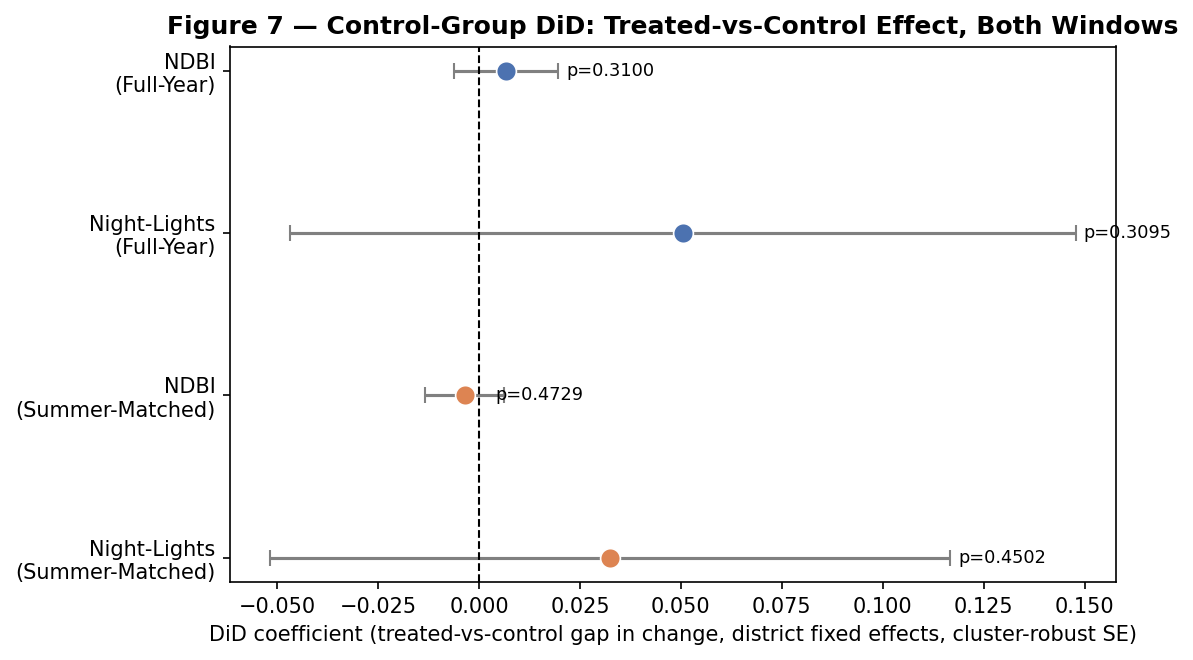
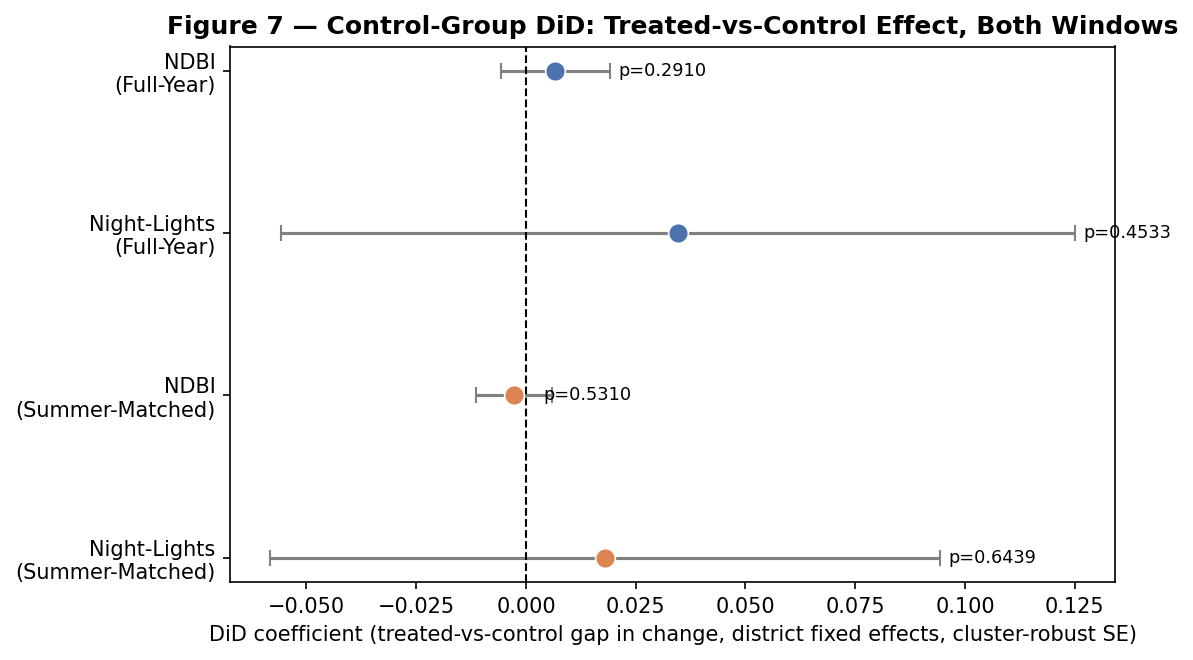
Sync dashboard, docs, citation file to 721-village control list (Entry 38)
- Fix hardcoded 732-village references across 4 dashboard pages and app.py
- Fix stale docstring in did_model.py
- Update CITATION.cff abstract, bump version to 1.6.0
- Rewrite DATA_DICTIONARY.md control-villages section to reflect current post-Entry-37 state
- Fix dashboard baseline-imbalance section that was contradicting the paper's own Section 6.7
- Regenerate 2 control-dependent figures (08, 11) plus 3 unaffected ones from the same script runs
- Correct archive/README.md superseded-by claim

diff --git a/pages/8_Methodology_Limitations.py b/pages/8_Methodology_Limitations.py
@@ -38,7 +38,7 @@ st.markdown("---")
 st.markdown("### Processing Pipeline")
 
 st.markdown("""
-Each village — treated and, identically, the 732-village non-VVP control group — is
+Each village — treated and, identically, the 721-village non-VVP control group — is
 buffered (500m primary, with 250m and 1km run as a robustness check) and used as the
 region for `reduceRegion` over cloud-masked Sentinel-2 composites (QA60 bitmask) and
 VIIRS monthly composites, for both a full-year window and a season-matched (Jun–Sep)
@@ -135,23 +135,38 @@ with st.expander("**Composite Window Trade-Off — Snow vs. Monsoon Cloud**"):
     other tests, that instability continues to be reported as a finding in itself.
     """)
 
-with st.expander("**Control-Group Baseline Imbalance — Resolved, and Why It Mattered**"):
+with st.expander("**Control-Group Baseline Imbalance — Resolved, Then Reopened by a Later Fix**"):
     st.markdown("""
     On the complete data (Development Log Entry 22), only one of the four outcome/window
     combinations still showed treated villages starting from a significantly different mean
-    2021 baseline than the 732-village control group: night-lights, full-year — which was
+    2021 baseline than the control group: night-lights, full-year — which was
     also, at the time, the one control-group DiD result still significant under any
     specification, and the one combination where the two DiD specifications disagreed on
-    significance. That imbalance is now resolved too: once the control group's own
+    significance. That imbalance looked resolved for a while: once the control group's own
     contamination was found (Development Log Entry 23 — 20 exact-coordinate duplicates of
     treated villages plus 3 official-name matches, together implicating 23 control-group
     rows) and actually fixed against live data (Entry 25), the full-year night-lights
-    baseline is no longer significantly imbalanced, and neither is any other combination.
-    All four outcome/window baseline checks are now statistically balanced. A genuine
-    parallel-pre-trends placebo test *has* since been run (Development Log Entry 30) — see
-    the "Parallel Pre-Trends Placebo Test" expander below — by pulling a second, earlier
-    pre-treatment year (2019) for both groups, closing the gap this section used to describe
-    as unclosable with the existing single-pre-period extraction.
+    baseline was no longer significantly imbalanced on that 732-village control list
+    (p = 0.090), and neither was any other combination.
+
+    That picture changed again with the Development Log Entry 37 district-verification fix
+    (the control list going from 732 to 721 villages, Tawang and Pithoragarh now
+    boundary-verified rather than bbox-matched) — and not in the direction of "more
+    resolved." The full-year night-lights baseline is imbalanced again on the corrected
+    721-village list: treated mean 0.42821 vs. control 0.43493, n = 251/721,
+    **p = 0.03558**. The other three combinations stay balanced (full-year NDBI p = 0.181,
+    summer NDBI p = 0.461, summer night-lights p = 0.088). This is disclosed rather than
+    smoothed over: fixing a real, independently-verified data-quality problem (unverified
+    district labels) surfaced a baseline imbalance that a previous, less-correct version of
+    the control list happened not to show. The full-year night-lights DiD result itself
+    stays null on the corrected list (p = 0.45334, see H4 above) — but that null can no
+    longer be read as sitting on a well-matched baseline for this one outcome/window
+    combination, the way it briefly could between Entries 25 and 37 (see Research Paper
+    §6.7 for the full account). A genuine parallel-pre-trends placebo test *has* since been
+    run (Development Log Entry 30) — see the "Parallel Pre-Trends Placebo Test" expander
+    below — by pulling a second, earlier pre-treatment year (2019) for both groups, closing
+    the gap this section used to describe as unclosable with the existing single-pre-period
+    extraction.
     """)
 
 with st.expander("**Multi-Year Trend Is Not Monotonic (and Nets Out to a Null, Like the Two-Point Comparison)**"):

diff --git a/pages/1_Study_Design.py b/pages/1_Study_Design.py
@@ -24,7 +24,7 @@ growth — at 258 individually geocoded villages, then tests whether that change
 statistically meaningful, correlated with budget, predicted by proximity to the
 border/LAC itself, and attributable to VVP-I specifically rather than a regional trend
 shared by every village in these districts — benchmarked against a district-restricted non-VVP
-control group of 732 villages and a three-point 2021/2023/2025 trend.
+control group of 721 villages and a three-point 2021/2023/2025 trend.
 """)
 
 st.markdown("---")
@@ -90,7 +90,7 @@ st.markdown(f"""
         Is any detected change attributable to VVP-I specifically, or does it merely reflect
         a regional trend shared by every village in these border districts regardless of
         programme status? <b>H4:</b> VVP-I priority villages will show a significantly
-        larger increase than a matched set of 732 non-VVP villages in the same 14
+        larger increase than a matched set of 721 non-VVP villages in the same 14
         districts over the same period — tested with a district-fixed-effects
         Difference-in-Differences model (see Statistical Validation).
     </p>
@@ -126,7 +126,7 @@ with col_b:
         <p style="color: {PALETTE['text_primary']}; font-size: 0.9rem; margin: 0;">
             Arunachal Pradesh, Sikkim, and Uttarakhand form the <b>core statistical sample</b>.
             Himachal Pradesh (7 villages) is an <b>illustrative case study</b> only — see
-            Methodology & Limitations. A district-restricted <b>non-VVP control group</b> of 732 villages,
+            Methodology & Limitations. A district-restricted <b>non-VVP control group</b> of 721 villages,
             drawn from the identical 14 districts, benchmarks this sample's change against
             the surrounding region's own trend over the same period.
         </p>
@@ -200,7 +200,7 @@ with col_m2:
 
 col_m3, col_m4 = st.columns([0.94, 0.06])
 with col_m3:
-    st.markdown("3. **Satellite Extraction** — Sentinel-2 NDBI and VIIRS night-lights via Google Earth Engine, run identically for the treated sample and the 732-village non-VVP control group, at three time points (2021/2023/2025) and three buffer radii (250m/500m/1km), cloud-masked composites.")
+    st.markdown("3. **Satellite Extraction** — Sentinel-2 NDBI and VIIRS night-lights via Google Earth Engine, run identically for the treated sample and the 721-village non-VVP control group, at three time points (2021/2023/2025) and three buffer radii (250m/500m/1km), cloud-masked composites.")
 with col_m4:
     proof_popover("02_gee_extraction_vscode.png", "extract_satellite_data.py open in VS Code, running the Earth Engine NDBI/VIIRS extraction pipeline.")
 
@@ -220,7 +220,7 @@ with col_m7:
 with col_m8:
     proof_popover("04_statistical_testing_vscode.png", "Statistical Validation page code open in VS Code — the Wilcoxon signed-rank and Spearman correlation tests.")
 
-st.markdown("7. **Control-Group DiD** — 732 non-VVP villages from the same 14 districts, via the OpenStreetMap Overpass API, compared against the treated sample with a district-fixed-effects Difference-in-Differences model (RQ5/H4).")
+st.markdown("7. **Control-Group DiD** — 721 non-VVP villages from the same 14 districts, via the OpenStreetMap Overpass API, compared against the treated sample with a district-fixed-effects Difference-in-Differences model (RQ5/H4).")
 st.markdown("8. **Multi-Year Trend** — A third time point (2023) fit as a per-village linear trend across 2021/2023/2025, so a trend line — not a two-point difference — carries the evidentiary weight.")
 st.markdown("9. **Buffer-Radius Sensitivity** — The same summer-window test re-run at 250m and 1km, on a sample-matched subset, to check the 500m buffer choice isn't itself driving the result.")
 

diff --git a/pages/5_Statistical_Validation.py b/pages/5_Statistical_Validation.py
@@ -21,7 +21,7 @@ _checks = [
     (PALETTE['accent'], "✓", "Dual Compositing-Window Test"),
     (PALETTE['accent'], "✓", "Two Independent Metrics (NDBI + VIIRS)"),
     (PALETTE['accent'], "✓", "Wilcoxon Signed-Rank Tests"),
-    (PALETTE['accent'], "✓", "District-Restricted Non-VVP Control Group (732 villages, DiD)"),
+    (PALETTE['accent'], "✓", "District-Restricted Non-VVP Control Group (721 villages, DiD)"),
     (PALETTE['accent'], "✓", "Control-Group DiD Checked Further (Leave-One-District-Out + Randomization Inference)"),
     (PALETTE['accent'], "✓", "Three-Point Multi-Year Trend (2021/2023/2025)"),
     (PALETTE['accent'], "✓", "Buffer-Radius Sweep (250m / 500m / 1km)"),
@@ -178,7 +178,7 @@ st.markdown("### H4 — Control-Group Difference-in-Differences")
 st.markdown(
     "A treated-only before/after comparison can't tell VVP-I's own effect apart from a "
     "regional trend every village in these districts shares. This benchmarks the treated "
-    "core sample against 732 district-restricted non-VVP villages in the same 14 districts — district "
+    "core sample against 721 district-restricted non-VVP villages in the same 14 districts — district "
     "fixed effects, standard errors clustered by district. Checked further by dropping each "
     "district one at a time and by randomization inference that doesn't lean on cluster "
     "asymptotics — see the cards below for each window's own leave-one-out and randomization "

diff --git a/app.py b/app.py
@@ -136,7 +136,7 @@ with col_left:
 
     This project fills that gap: applying **Sentinel-2 built-up-area indices (NDBI)** and
     **VIIRS night-lights** data to 258 individually geocoded villages, benchmarked against
-    a district-restricted non-VVP control group of 732 villages in the same districts, testing whether
+    a district-restricted non-VVP control group of 721 villages in the same districts, testing whether
     measurable change occurred between 2021 and 2025, whether it is attributable to VVP-I
     specifically, whether it correlates with state-wise budget allocation, and whether
     proximity to the border/LAC itself predicts the pace of development — with every data
@@ -180,7 +180,7 @@ with m1:
         <p style="color: {PALETTE['border_up']}; font-weight: 800; font-size: 0.85rem; text-transform: uppercase; margin-bottom: 10px;">Satellite Verification</p>
         <p style="color: {PALETTE['text_primary']}; font-size: 0.88rem; margin: 0;">
             Sentinel-2 NDBI and VIIRS night-lights extracted at 258 treated village points
-            plus 732 district-restricted control villages, across paired 2021/2025 composites (plus
+            plus 721 district-restricted control villages, across paired 2021/2025 composites (plus
             2023) under both full-year and season-matched windows, at 250m/500m/1km
             buffers.
         </p>

diff --git a/pages/7_Interactive_Maps.py b/pages/7_Interactive_Maps.py
@@ -17,7 +17,7 @@ st.markdown(
 st.markdown("---")
 
 st.markdown("""
-Every geocoded village — plus the 732-village non-VVP control group — plotted on a live
+Every geocoded village — plus the 721-village non-VVP control group — plotted on a live
 satellite/dark basemap, plus the three headline statistical charts as hoverable, toggleable
 plots instead of flat images. Hover or click any marker or data point for its exact value.
 """)

diff --git a/src/analysis/did_model.py b/src/analysis/did_model.py
@@ -1,6 +1,6 @@
 """
-DiD: 251 treated villages vs 732 district-restricted non-VVP control villages
-(dedup logic is in select_control_villages.py). District FE, SEs clustered by district.
+DiD: 251 treated villages vs 721 district-restricted non-VVP control villages
+(dedup + district-boundary verification logic is in select_control_villages.py). District FE, SEs clustered by district.
 """
 
 import argparse

diff --git a/BO_Development_Log.md b/BO_Development_Log.md
@@ -1218,3 +1218,19 @@ Rather than take on the full Anara list, Sakshi chose the minimal path: fix the 
 **Documents updated in this entry.** `BO_Research_Paper.md` (Abstract, §3.7-adjacent DiD-design sentence, §4.6 footnote and all three paragraphs, §4.9 two DiD-figure citations, §4.10 SAR and Dynamic World paragraphs, §6.7 full rewrite, §6.10 table rows for baseline imbalance/cluster count/contamination/district-verification); `tests/test_data_integrity.py` (`EXPECTED_CONTROL` 732 → 721); `ANALYSIS_FREEZE.md` (summary table, items 1, 2, 6, 12); `README.md` (two control-group paragraphs); `BO_Executive_Summary.md` (three control-group mentions); `src/acquisition/extract_dynamicworld_built.py`, `src/acquisition/extract_sar_backscatter.py`, `src/acquisition/extract_building_footprints.py` (coordinate-based mismatch check added to all three); `src/analysis/pretreatment_placebo_test.py`, `src/analysis/dw_pretreatment_placebo_test.py` (control-side join switched from `village_id` to coordinate). All Python files reverified with `python3 -m py_compile`; `tests/test_data_integrity.py` reruns 12/12 pass.
 
 **Not done in this entry.** The Dynamic World 2019 placebo test (Entry 36's fourth deferred item) has its extraction and analysis scripts written and fixed, but the 2019 baseline extraction itself has not been run — needs `extract_dw_pretreatment_baseline.py` on Sakshi's own machine for both groups/windows, then `dw_pretreatment_placebo_test.py`. `extract_pretreatment_baseline.py --group control` and `extract_building_footprints.py --group control` also still need re-running against the current 721-village list before `pretreatment_placebo_test.py` (existing §7.5 result) or the control-side building footprints (currently unused) can be trusted if re-run. Sikkim's North district remains permanently or provisionally bbox-only; no further attempt was made in this entry to resolve it differently (e.g. by aggregating known constituent village names).
+
+## Entry 38
+
+**Status.** After Entry 37 closed the district-verification gap and the paper/dev-log/freeze-doc/README/executive-summary were all updated to the corrected 721-village list, Sakshi asked directly whether *everything* — dashboard, docs, maps, graphs, citation file — was actually synced, or whether something got missed. It had: Entry 37 only touched the text documents actually cited in the paper. This entry is that gap-finding pass, done by checking every remaining file rather than assuming the earlier fix was complete.
+
+**What was found stale.** Four Streamlit dashboard pages still hardcoded "732 villages" in their prose: `pages/1_Study_Design.py` (5 mentions), `pages/5_Statistical_Validation.py` (2 current-state mentions; one historical Entry-25-era mention at line 356 correctly left as-is, since 732 was the true count at that point in the project's history), `pages/7_Interactive_Maps.py` (1 mention), `pages/8_Methodology_Limitations.py` (1 mention). `app.py`'s landing page had two more (the intro paragraph and the "Methodology at a Glance" card). `src/analysis/did_model.py`'s top-of-file docstring still read "251 treated villages vs 732 ... control villages." `CITATION.cff`'s abstract still said "732 villages" with no mention of the district-verification fix or the baseline-imbalance flip that Entry 37 found. `DATA_DICTIONARY.md`'s `border_optics_control_villages.csv` section was the most stale of all: it still described the *pre-fix* state as current ("732 rows," "219 of the 732 rows" unverified, "the already-committed 732-row file itself has not yet been regenerated" — all true when that section was first written, all false now). `archive/README.md` asserted the archived pre-Entry-24 file was "superseded by the current 732-village" list, which stopped being true the moment Entry 37 ran.
+
+**A substantive content gap, not just a stale number.** `pages/8_Methodology_Limitations.py`'s "Control-Group Baseline Imbalance" expander was titled "Resolved, and Why It Mattered" and stated outright that "All four outcome/window baseline checks are now statistically balanced." That was true after Entry 25 and false after Entry 37 — the full-year night-lights baseline reopened as significantly imbalanced (p=0.036) on the corrected 721-village list, exactly the finding Entry 37 reported in the paper's §6.7. The dashboard section was quietly making a claim the paper itself had already retracted. Rewrote the expander (title and body) to match §6.7's account: resolved after Entry 25, reopened after Entry 37, with the actual numbers for all four combinations and a note that the full-year night-lights DiD result itself stays null regardless.
+
+**Two figures were also genuinely stale, not just text.** Traced every figure-generating script to determine which read control-group data: `make_expanded_analysis_charts.py` (→ `08_control_group_did_effect.png`, Figure 7 in the paper) and `make_triangulation_and_footprint_charts.py` (→ `11_triangulation_did.png`, Figure 11) both read the `did_summary`/`triangulation_results` JSONs that Entry 37 already regenerated in-sandbox, but the PNG files themselves still had a September 17 mtime, predating that regeneration. `07_robustness_summary.png` (Figure 10) was confirmed NOT control-dependent by reading its generating script (`make_robustness_summary.py` — treated-side data only) and correctly left alone. Regenerated all five outputs of the two control-dependent scripts (`08_`, `09_`, `10_`, `11_`, `12_` — the last three read only treated-side data and are unaffected, but came out of the same two script runs so were delivered alongside for consistency).
+
+**What was checked and correctly left alone.** `BO_Deep_Audit_Report.md`'s "219 of 732" mention (its own A10 finding) is a dated audit-report deliverable describing what was true at the time of that audit — the same category as a Development Log entry, and the actual finding it describes is what became Entry 37's fix. `FIELD_VERIFICATION_SHORTLIST.md`'s apparent "732" grep hit turned out to be a false positive — a substring inside a longitude coordinate (88.527732), not a village count. `src/acquisition/extract_sar_backscatter.py` and `extract_dynamicworld_built.py` each have a comment referencing "the old 732-village control checkpoint" — this is the Entry 37 bug-fix comment itself, correctly historical. `BO_Research_Paper.md`, `ANALYSIS_FREEZE.md`, `README.md`, and `tests/test_data_integrity.py`'s remaining "732" mentions are all intentional before/after comparisons already correctly stated in Entry 37 (e.g. "was 732, now 721").
+
+**Documents updated in this entry.** `pages/1_Study_Design.py`, `pages/5_Statistical_Validation.py`, `pages/7_Interactive_Maps.py`, `pages/8_Methodology_Limitations.py` (text fixes plus the baseline-imbalance content rewrite described above), `app.py` (two mentions), `src/analysis/did_model.py` (docstring), `CITATION.cff` (abstract updated to 721 plus a new disclosure sentence on the district-verification fix and baseline-imbalance flip; version bumped 1.5.0 → 1.6.0, date-released updated), `DATA_DICTIONARY.md` (control-villages section rewritten to describe the current, post-Entry-37 state rather than the pre-fix state), `archive/README.md` (one sentence corrected so it no longer claims 732 is the current count). Two figures regenerated and delivered: `outputs/figures/08_control_group_did_effect.png`, `outputs/figures/11_triangulation_did.png` (plus `09_`, `10_`, `12_` as a harmless side effect of the same script runs). All touched Python files reverified with `python3 -m py_compile`; `tests/test_data_integrity.py` reruns 12/12 pass.
+
+**Not done in this entry.** Same open items as Entry 37: the Dynamic World 2019 placebo test has never actually been run (scripts ready); `extract_pretreatment_baseline.py --group control` and `extract_building_footprints.py --group control` still need re-running against the 721-village list; Sikkim/North remains unverifiable under either Nominatim query phrasing tried; the three earlier draft files (`BO_Results_Stability_Table.md`, `BO_Equivalence_Framing_Draft.md`, `BO_Pitch_Document.md`) remain undecided — kept, delivered, but not confirmed wanted or folded into the paper.

diff --git a/DATA_DICTIONARY.md b/DATA_DICTIONARY.md
@@ -44,13 +44,13 @@ See `src/acquisition/extract_satellite_data.py` for the exact implementation.
 
 ## `border_optics_control_villages.csv`
 
-One row per non-VVP control village (732 rows — deduped by geodesic coordinate proximity (50m) and by the full official priority-village name list; see `BO_Development_Log.md` Entries 14-15, 23-25), assembled via the OpenStreetMap Overpass API from the same 14 districts as the treated core sample, excluding any village on a VVP-I priority list. Produced by `select_control_villages.py`. District membership is checked against a real Nominatim boundary polygon where that lookup succeeds; where it doesn't, the candidate is kept on a rougher bounding-box match instead (see `district_verified` below) — **as of the current committed file, that lookup did not succeed for 219 of the 732 rows (all in Tawang/Arunachal Pradesh, North district/Sikkim, and Pithoragarh/Uttarakhand)**, so those three districts' fixed effects and cluster assignment rest on an unverified district label for a portion of their control villages. The underlying retry/lookup logic was hardened after this was found, but the already-committed 732-row file itself has not yet been regenerated against it.
+One row per non-VVP control village (721 rows — deduped by geodesic coordinate proximity (50m) and by the full official priority-village name list; see `BO_Development_Log.md` Entries 14-15, 23-25), assembled via the OpenStreetMap Overpass API from the same 14 districts as the treated core sample, excluding any village on a VVP-I priority list. Produced by `select_control_villages.py`. District membership is checked against a real Nominatim boundary polygon where that lookup succeeds; where it doesn't, the candidate is kept on a rougher bounding-box match instead (see `district_verified` below). A retry/disambiguated-phrasing fix (Development Log Entry 37) was run against live Nominatim/Overpass access and resolved real boundary polygons for two of the three previously-unverified districts (Tawang, Arunachal Pradesh; Pithoragarh, Uttarakhand), dropping the control list from 732 to 721 rows in the process (11 Tawang candidates confirmed genuinely out-of-district once the real polygon was available). **As of the current committed file, that lookup still does not succeed for 93 of the 721 rows, all in Sikkim's North district** — no Nominatim boundary resolves for that district under either query phrasing tried, which appears to be a genuine data gap rather than a network/rate-limit failure — so that one district's fixed effects and cluster assignment still rest on an unverified district label.
 
 | Column | Type | Description |
 |---|---|---|
 | `village_id` | int | Control-group-specific integer ID (not comparable to the treated `village_id` values — the two ID spaces are separate). |
 | `village`, `district`, `block`, `state`, `is_core_sample`, `latitude`, `longitude`, `distance_to_border_km` | — | Same meaning as in the master village table. |
-| `district_verified` | bool | `True` if this candidate's district membership was confirmed against a real Nominatim administrative-boundary polygon; `False` if that lookup failed and the row was kept purely because it fell inside the ~65km search bounding box around the district's treated villages instead. Currently `False` for 219 of 732 rows — see the file-level note above. |
+| `district_verified` | bool | `True` if this candidate's district membership was confirmed against a real Nominatim administrative-boundary polygon; `False` if that lookup failed and the row was kept purely because it fell inside the ~65km search bounding box around the district's treated villages instead. Currently `False` for 93 of 721 rows (all Sikkim/North) — see the file-level note above. |
 | `village_source` | string | Always `control (non-VVP)` in this file — retained so control and treated rows can be safely concatenated for the DiD panel without losing group identity. |
 
 ## `border_optics_control_results.csv` (full-year) / `border_optics_control_results_summer.csv` (summer-matched)

diff --git a/archive/README.md b/archive/README.md
@@ -8,7 +8,7 @@ Nothing in `src/`, `pages/`, or `app.py` reads from this folder. Every file here
 
 | File | Original path | Why it's here |
 |---|---|---|
-| `border_optics_control_villages_PRE_ENTRY24_FIX.csv` | `data/processed/` | The 735-village control list before the coordinate-proximity + official-name-list dedup fix (Development Log Entry 24). Superseded by the current 732-village `border_optics_control_villages.csv`. Kept because it's the source used to independently reproduce the "20 duplicates / 21 treated villages" count in `BO_Research_Paper.md` §4.6 and §6.10 — see `BO_Development_Log.md` Entries 22-25 for the full account. |
+| `border_optics_control_villages_PRE_ENTRY24_FIX.csv` | `data/processed/` | The 735-village control list before the coordinate-proximity + official-name-list dedup fix (Development Log Entry 24). Superseded first by the 732-village list that fix produced (Entry 25), and later by the current 721-village `border_optics_control_villages.csv` (Entry 37 district-verification fix). Kept because it's the source used to independently reproduce the "20 duplicates / 21 treated villages" count in `BO_Research_Paper.md` §4.6 and §6.10 — see `BO_Development_Log.md` Entries 22-25 for the full account. |
 | `border_optics_control_results_summer.OLD_PRE_ENTRY22.csv` | `data/processed/` | The control-group summer extraction before the Entry 22 same-day, complete re-pull. Deliberately renamed rather than overwritten at the time (Entry 22) so the pre/post comparison stayed inspectable. |
 | `border_optics_buffer250_summer_PRE_SAMEDAY_BUFFER_CHECK.csv` | `data/processed/` | Buffer-sensitivity sweep (250m radius) before the same-day-extraction re-pull. |
 | `border_optics_buffer1000_summer_PRE_SAMEDAY_BUFFER_CHECK.csv` | `data/processed/` | Buffer-sensitivity sweep (1km radius) before the same-day-extraction re-pull. |
